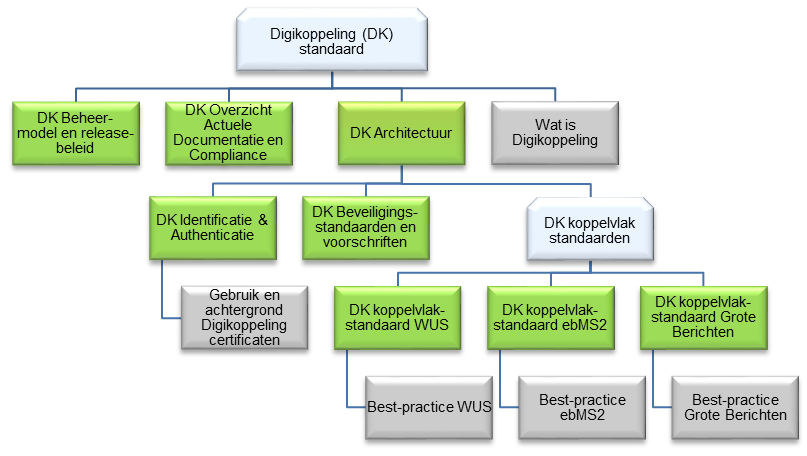
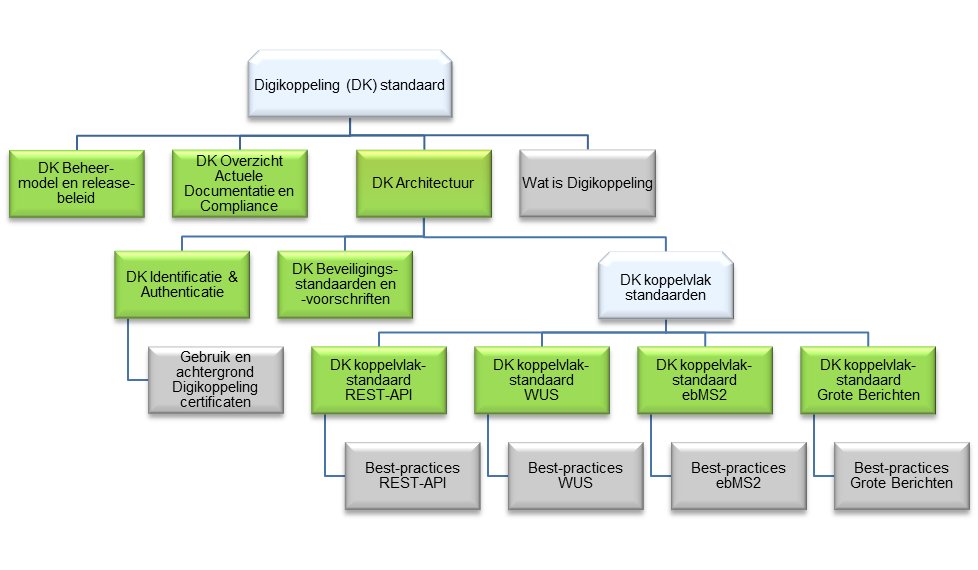
updated sections

diff --git a/js/config.js b/js/config.js
@@ -8,7 +8,7 @@ var respecConfig = {
   // TODO: emailComments: '...',
   // TODO: Voor pubDomain mogelijkheden zie https://github.com/Geonovum/respec/wiki/pubDomain
   // TODO: pubDomain: "...",
-  splitMDsections: false,
+  // splitMDsections: false,
  
   // Vul in om een korte extra uitleg te weergeven op de docs.centrumvoorstandaarden.nl website.
   subExplanation: "blabla", 
@@ -17,7 +17,7 @@ var respecConfig = {
   // Als er geen publishDate is opgegeven, genereert ReSpec de dataum o.b.v. de laatste wijzigingen
   // Belangrijk: als publishDate niet opgegeven is, wordt bij de link "Laatst gepubliceerde versie" "geen" gezet. Anders wordt een link opgebouwd voor de laatste versie, met het formaat:
   // https://docs.centrumvoorstandaarden.nl/{pubDomain}/{shortName}
-  publishDate: "2020-08-12",
+  publishDate: "2020-10-14",
   // Als er een eerder gepubliceerde versie is, geef dan de datum daarvan op
   //previousPublishDate: "2017-05-31",
   // Zie https://github.com/w3c/respec/wiki/previousMaturity. Dit moet een

diff --git a/dk_architectuurprincipes.md b/dk_architectuurprincipes.md
@@ -1,4 +1,3 @@
-<!-- markdownlint-disable MD033 MD024 MD041 MD038 -->
 # Digikoppeling-architectuurprincipes
 
 ## Uitgangspunten
@@ -7,7 +6,7 @@ De volgende uitgangspunten vormen de basis voor de uitwerking van deze architect
 
 1. De Digikoppeling standaarden zijn openbaar, vindbaar, transparant, leveranciersonafhankelijk en interoperabel. Zie bijlage D voor uitleg.
 
-2. De Digikoppeling-standaarden ondersteunen veilige gegevensuitwisseling <del>op basis van meldingen (ebMS2) , bevragingen (WUS) of in combinatie met grote berichten (GB).</del> voor:
+2. De Digikoppeling-standaarden ondersteunen veilige gegevensuitwisseling ~~op basis van meldingen (ebMS2) , bevragingen (WUS) of in combinatie met grote berichten (GB).~~ voor:
    - synchrone en asynchrone uitwisseling;
    - op berichten of op resources gebaseerde uitwisseling;
    - best effort of reliable uitwisseling;
@@ -15,20 +14,15 @@ De volgende uitgangspunten vormen de basis voor de uitwerking van deze architect
 
 > `TODO`: is bovenstaande lijstje compleet? toe te voegen patronen kunnen bijvoorbeeld zijn: stateful/stateless, push/pull, enz.
 
+3. Partijen kunnen kiezen welk interactiepatroon nodig is voor gegevensuitwisseling. ~~meldingen en/of bevragingen~~, afhankelijk van hun behoefte. Partijen bepalen in onderling overleg welke ~~ WUS- of ebMS2-~~ Digikoppeling profiel ze gebruiken.
 
+4. Basisregistraties en landelijke voorzieningen bepalen welke koppelvlakstandaard gebruikt wordt door een door hun geleverde dienst. Per dienst kunnen meerdere koppelvlakstandaarden gebruikt worden.
 
-3. Partijen kunnen kiezen welk interactiepatroon nodig is voor gegevensuitwisseling. <del>meldingen en/of bevragingen</del>, afhankelijk van hun behoefte. Partijen bepalen in onderling overleg welke <del> WUS- of ebMS2-</del> Digikoppeling profiel ze gebruiken.
-
-<details>
-  <summary>let op: Principe 4 is gewijzigd. Waarom?</summary>
-  > Principe 4 is vervangen door een gewijzigd principe 4. Er moet nog een check worden uitgevoerd op de NORA.
-</details>
-
-~~4. Basisregistraties en landelijke voorzieningen moeten beide koppelvlakstandaarden ondersteunen<sup>[12](#f12)</sup>. Mochten de serviceafnemers voldoende hebben aan één van de koppelvlakstandaarden, dan kan de aanbieder zich tot deze koppelvlakstandaard beperken.~~ 
-
-4. Basisregistraties en landelijke voorzieningen bepalen welke koppelvlakstandaard gebruikt wordt door een door hun geleverde dienst. Per dienst kunnen meerdere koppelvlakstandaard gebruikt worden.
-
-<del><br><sup><a name="f12"><dfn>12</dfn></a><del> Serviceafnemers kunnen hierdoor ebMS gebruiken voor zowel bevragingen (binnen de sector), meldingen als grote berichten. </del></sup></del>
+> **let op** Principe 4 is vervangen door een gewijzigd principe 4. Er moet nog een check worden uitgevoerd op de NORA.
+>
+> De vorige formulering was 
+> 4. ~~Basisregistraties en landelijke voorzieningen moeten beide koppelvlakstandaarden ondersteunen<sup>[12](#f12)</sup>. Mochten de serviceafnemers voldoende hebben aan één van de koppelvlakstandaarden, dan kan de aanbieder zich tot deze koppelvlakstandaard beperken.~~ 
+> ~~<br><sup><a name="f12"><dfn>12</dfn></a> Serviceafnemers kunnen hierdoor ebMS gebruiken voor zowel bevragingen (binnen de sector), meldingen als grote berichten. ~~</sup>
 
 In vorige versies van de Digikoppeling Architectuur werden profielen gekoppeld aan bevragingen en meldingen. Dit voorschrift bleek in de praktijk niet meer goed bruikbaar. Vandaar dat met ingang van versie `xx` deze relatie is komen te vervallen.
 
@@ -50,12 +44,12 @@ De architectuurprincipes geven richting aan de Digikoppeling-standaarden en Digi
 
 **Principe:** De interoperabiliteit van diensten is mogelijk door het gebruik van bewezen interoperabele internationale standaarden.
 
-**Rationale:** Door het gebruik van internationale open standaarden is het eenvoudiger en goedkoper om gegevens onderling uit te wisselen. Dit volgt uit de NORA en <del>het European Interoperability Framework (IDABC)</del>.
+**Rationale:** Door het gebruik van internationale open standaarden is het eenvoudiger en goedkoper om gegevens onderling uit te wisselen. Dit volgt uit de NORA en ~~het European Interoperability Framework (IDABC)~~.
 
 **Invulling:** 
 > `TODO`: Zowel IEF 2.0 als het European Framwork 2.0 zijn verouderd en vervangen door de  'New' EIF en de de EIRA. Onderbouwing moet daarom worden vernieuwd  
 
-<del>Het European Interoperability Framework 2. 0 maakt gebruik van een conceptueel model voor de levering van publieke diensten . In dit model is de *Secure Data Exchange/Management* laag verantwoordelijk voor de veilige uitwisseling van diensten en informatie. Deze laag regelt de veilige uitwisseling van gecontroleerde en betrouwbare berichten, documenten, formulieren en ander informatiedragers tussen verschillende systemen. Naast het transport van gegevens moet deze laag ook specifieke beveiligingsaspecten regelen zoals elektronische handtekeningen, certificaten, encryptie en tijdregistratie.<sup>[13](#f13)</sup></del>
+~~Het European Interoperability Framework 2. 0 maakt gebruik van een conceptueel model voor de levering van publieke diensten . In dit model is de *Secure Data Exchange/Management* laag verantwoordelijk voor de veilige uitwisseling van diensten en informatie. Deze laag regelt de veilige uitwisseling van gecontroleerde en betrouwbare berichten, documenten, formulieren en ander informatiedragers tussen verschillende systemen. Naast het transport van gegevens moet deze laag ook specifieke beveiligingsaspecten regelen zoals elektronische handtekeningen, certificaten, encryptie en tijdregistratie.<sup>[13](#f13)</sup>~~
 
 
 Deze laag wordt in de Nederlandse publieke sector ingevuld door Digikoppeling. Digikoppeling maakt hiervoor gebruik van twee internationale families van open standaarden voor webservices:<sup>[14](#f14)</sup> en REST-API's,een architectuurstijl gebaseerd op het gebruik van resources en de standaarden HTTP en JSON.  
@@ -71,11 +65,11 @@ De ebMS2 standaard en de WUS profielen worden door OASIS ([www.oasis.org](https:
 **Gevolg:** Digikoppeling schrijft ebMS2-, WUS-standaarden en de Nederlandse API Design Rules voor in de vorm van de Digikoppeling-koppelvlakstandaarden en profielen. Organisaties kunnen hiermee effectief, snel en veilig gegevens uitwisselen.
 
 <br>
-<br><del><sup><a name="f13"><dfn>13</dfn></a> Annex II - EIF (European Interoperability Framework) of the Communication “Towards interoperability for European public services” on the 16th of December 2010.</sup></del>
+<br>~~<sup><a name="f13"><dfn>13</dfn></a> Annex II - EIF (European Interoperability Framework) of the Communication “Towards interoperability for European public services” on the 16th of December 2010.</sup>~~
 
 <br><sup><a name="f14"><dfn>14</dfn></a> EIF 1.0. Het begrip webservices is een algemeen concept dat gerelateerd is aan Service georiënteerde architectuur. Zowel WUS als ebMS werken volgens dit concept. Omdat de WS-\* familie voortbouwt op de basisstandaarden WSDL, UDDI en SOAP, wordt deze familie wel aangeduid met WUS.</sup>
 
-<br><del><sup><a name="f15"><dfn>15</dfn></a> Voor de toepassing binnen Digikoppeling is in eerste instantie de beperking van die twee families overgenomen; de andere families hebben onvoldoende relevantie voor de Europese en Nederlandse overheid om afwijking van dit kader te rechtvaardigen.</sup></del>
+<br>~~<sup><a name="f15"><dfn>15</dfn></a> Voor de toepassing binnen Digikoppeling is in eerste instantie de beperking van die twee families overgenomen; de andere families hebben onvoldoende relevantie voor de Europese en Nederlandse overheid om afwijking van dit kader te rechtvaardigen.</sup>~~
 
 ## Gebruik standaardoplossingen (minimum aan maatwerk)
 
@@ -91,7 +85,7 @@ De ebMS2 standaard en de WUS profielen worden door OASIS ([www.oasis.org](https:
 
 **Principe:** Gegevens worden veilig uitgewisseld conform de eisen van de toepasselijke wet en regelgeving.
 
-**Rationale:** Er zijn diverse redenen om gegevens veilig en vertrouwelijk uit te wisselen. De <span style="color:green"> Algemene verordening gegevensbescherming (AVG) </span><del> Wet Bescherming Persoonsgegevens (WBP) </del> verplicht adequate maatregelen om de veiligheid en vertrouwelijkheid van (persoons)gegevens te bewaken. Partijen die onderling gegevens uitwisselen moeten hier afspraken over maken. De Wet Elektronische Handtekeningen bepaalt de rechtsgeldigheid van berichten die ondertekend zijn met een geldige digitale handtekening. Naast deze wetgeving zijn er ook andere wetten en beleidskaders die eisen stellen aan beveiliging en uitwisseling van gegevens.
+**Rationale:** Er zijn diverse redenen om gegevens veilig en vertrouwelijk uit te wisselen. De  Algemene verordening gegevensbescherming (AVG) ~~Wet Bescherming Persoonsgegevens (WBP)~~ verplicht adequate maatregelen om de veiligheid en vertrouwelijkheid van (persoons)gegevens te bewaken. Partijen die onderling gegevens uitwisselen moeten hier afspraken over maken. De Wet Elektronische Handtekeningen bepaalt de rechtsgeldigheid van berichten die ondertekend zijn met een geldige digitale handtekening. Naast deze wetgeving zijn er ook andere wetten en beleidskaders die eisen stellen aan beveiliging en uitwisseling van gegevens.
 
 Wanneer het gaat over veiligheid en vertrouwelijkheid zijn ook de Wet politiegegevens (informatiedeling met derden) en de Archiefwet van belang.
 
@@ -118,13 +112,13 @@ Digikoppeling stelt het gebruik van het PKIoverheid certificaten verplicht voor 
 
 ## Betrouwbaarheid
 
-> `TODO:` opties tussen transportprotocol en in businesslaag verduidelijken 
+> `TODO:` opties tussen op betrouwbaarheid op transportprotocolniveau en in businesslaag verduidelijken 
 
 **Principe:** De berichtuitwisseling is betrouwbaar indien nodig.
 
 **Rationale:** Betrouwbaarheid betekent een goede aflevering van berichten. Zie ook NORA BP09.
 
-**Invulling:** Dit principe wordt ingevuld met <del>meldingen</del> het ebMS profiel, dat een reliable variant kent. De verzender is verantwoordelijk voor de goede aflevering van gegevens (d.m.v. berichten) en kan hiervoor een betrouwbaar Digikoppeling-profiel gebruiken.
+**Invulling:** Dit principe wordt ingevuld met ~~meldingen~~ het ebMS profiel, dat een reliable variant kent. De verzender is verantwoordelijk voor de goede aflevering van gegevens (d.m.v. berichten) en kan hiervoor een betrouwbaar Digikoppeling-profiel gebruiken.
 
 > `TODO`: moet de volgende nieuwe zin - zie hieronder-, hier of als voetnoot worden vermeld? 
 

diff --git a/dk_wat_is_digikoppeling.md b/dk_wat_is_digikoppeling.md
@@ -14,7 +14,7 @@ Digikoppeling voorziet hierin door de standaarden voor deze uitwisseling te defi
 Digikoppeling is primair bedoeld voor gegevensuitwisseling tussen systemen van overheidsorganisaties, in het bijzonder de basisregistraties en landelijke of intersectorale gegevensdiensten, maar wordt breder ingezet in de (semi)publieke sector. Digikoppeling is beschikbaar voor elke organisatie die veilig en betrouwbaar gegevens wil uitwisselen met andere organisaties in de publieke sector. Gebruik van Digikoppeling buiten de publieke sector is ook mogelijk.
 
 > `TODO` De NORA richt zicht ook steeds meer op halen bij de bron en raadt het gebruik van API sterk aan.  Onderstaande alinea is daarom aan vervanging toe
-<del>## Servicegerichte architectuur conform NORA</del>
+## ~~Servicegerichte architectuur conform NORA~~
 
 <del>
 Digikoppeling sluit aan bij de servicegerichte architectuur die NORA (Nederlandse Overheids Referentie Architectuur)<sup>[1](#f1)</sup>: voorstaat. Deze vorm van informatie-uitwisseling verloopt via geautomatiseerde systemen van organisaties. Digikoppeling richt zich dus op de communicatie tussen ICT-systemen van verschillende organisaties, specifiek in de vorm van berichtenverkeer.</del>
@@ -93,7 +93,7 @@ De toepassing van Digikoppeling heeft enkele grote voordelen:
 
 ### De ‘Pas toe of leg uit’-lijst
 
-Digikoppeling staat op de ‘Pas toe of leg uit’-lijst van open standaarden van het Forum <del>en College</del> Standaardisatie<sup>[8](#f8)</sup>. Welke koppelvlakken nodig zijn en welke standaarden uit de lijst ingezet moeten worden, is afhankelijk van de aan te schaffen functionaliteit<sup>[9](#f9)</sup>.
+Digikoppeling staat op de ‘Pas toe of leg uit’-lijst van open standaarden van het Forum Standaardisatie<sup>[8](#f8)</sup>. Welke koppelvlakken nodig zijn en welke standaarden uit de lijst ingezet moeten worden, is afhankelijk van de aan te schaffen functionaliteit<sup>[9](#f9)</sup>.
 
 <sup><a name="f8"><dfn>8</dfn></a>: Voor meer informatie over open standaarden en de ‘pas toe of leg uit’ lijst zie: *https://www.forumstandaardisatie.nl/open-standaarden*.</sup> 
 
@@ -103,44 +103,24 @@ De opname op de ‘Pas toe of leg uit’-lijst houdt in dat Digikoppeling de sta
 
 ### Het functioneel toepassingsgebied
 
-<details>
-<summary>Waarom deze wijziging?</summary>
-
 > De inhoud van deze paragraaf is gelijkgetrokken met het Functionale Toepassingsgebied van Digikoppeling op de Pas-toe-of-leg-uit lijst van het Forum Standaardisatie, zie [https://www.forumstandaardisatie.nl/standaard/digikoppeling)](https://www.forumstandaardisatie.nl/standaard/digikoppeling)
-</details>
 
-Het functioneel toepassingsgebied van Digikoppeling is door het Forum Standaardisatie als volgt gedefinieerd:
+Het functioneel toepassingsgebied van Digikoppeling is door OBDO als volgt gedefinieerd:
 
 Digikoppeling moet worden toegepast op alle digitale gegevensuitwisseling met behulp van gestructureerde berichten die plaatsvindt met voorzieningen die onderdeel zijn van de GDI, waaronder de basisregistraties, of die sector-overstijgend is. Geautomatiseerde gegevensuitwisseling tussen informatiesystemen op basis van NEN3610 is uitgesloten van het functioneel toepassingsgebied.  
 
 Op 24 mei 2018 is de omschrijving van het functioneel toepassingsgebied door het Overheidsbrede Beleidsoverleg Digitale Overheid (OBDO) opnieuw bekrachtigd.
 
-<del><sup>[10](#f10)</sup>Geautomatiseerde gegevensuitwisseling tussen informatiesystemen voor sectoroverstijgend berichtenverkeer, op basis van:</del>  
-<del>
-- Digikoppeling ebMS2-standaard voor meldingen tussen informatiesystemen.
-- Digikoppeling WUS-standaard voor de bevraging van informatiesystemen. 
-- Digikoppeling GB-standaard voor de uitwisseling van grote berichten.
-</del>  
-
 <sup><a name="f10"><dfn>10</dfn></a>: [https://lijsten.forumstandaardisatie.nl/open-standaarden/digikoppeling](https://lijsten.forumstandaardisatie.nl/open-standaarden/digikoppeling)</sup>
 
 ### Het organisatorisch werkingsgebied
 
-<details>
-<summary>Waarom deze wijziging?</summary>
-
 > De inhoud van deze paragraaf is gelijkgetrokken met het Organisatorische Werkingsgebied van Digikoppeling op de Pas-toe-of-leg-uit lijst van het Forum Standaardisatie, zie [https://www.forumstandaardisatie.nl/standaard/digikoppeling)](https://www.forumstandaardisatie.nl/standaard/digikoppeling)
-</details>
 
-Het organisatorisch werkingsgebied van Digikoppeling is door <del>het College Standaardisatie</del><span style="color:green">het OBDO</span> gedefinieerd als:
+Het organisatorisch werkingsgebied van Digikoppeling is door het OBDO gedefinieerd als:
 
 - Nederlandse overheden (Rijk, provincies, gemeenten en waterschappen) en instellingen
 - uit de (semi-) publieke sector.
-
-<del>Het werkingsgebied van de standaard is bedoeld voor intersectoraal verkeer en verkeer met basisregistraties en kent geen verplichting binnen sectoren. Het Forum is wel van mening dat gebruik binnen sectoren ook aanbevelenswaardig is en roept de beheerder van de standaard dan ook op dit gebruik te promoten.
-</del>  
-
-<del>Het organisatorisch werkingsgebied beschrijft de overheden die verplicht zijn om Digikoppeling te gebruiken voor een bepaald doel, in dit geval berichtenverkeer met basisregistraties en sectoroverstijgend berichtenverkeer. In de praktijk wordt Digikoppeling ook door vele organisaties buiten dit domein gebruikt en in sommige sectoren ook voor het sectorale verkeer. De landelijke eOverheids voorzieningen maken tevens gebruik van Digikoppeling voor het berichtenverkeer met hun afnemers.</del>  
 
 Digikoppeling is van toepassing bij aanschaf of ontwikkeling van systemen bedoeld voor gestructureerde berichtenuitwisseling met voorzieningen die onderdeel zijn van de GDI (zoals de basisregistraties) en berichtverkeer dat sectoroverstijgend is.
 
@@ -168,7 +148,7 @@ Versie 2.0 is ‘backwards compatible’: organisaties die versie 1.0 gebruiken 
 Digikoppeling 2.0 is in 2013 door het College Standaardisatie opgenomen op de
 ‘Pas toe of leg uit’-lijst van standaarden. Omdat versie 2.0 backwards compatible is, voldoen implementaties van Digikoppeling 1.0 nog steeds aan die lijst.
 
-### vanaf 2018: Digikoppeling versionering niet meer of hoofdniveau, maar op documentniveau
+### Vanaf 2018: Digikoppeling versionering niet meer of hoofdniveau, maar op documentniveau
 
 Voor de Digikoppeling standaard is in 2018 de versionering op het hoofdniveau beëindigd. Er zal alleen nog worden gerefereerd aan de Digikoppeling standaard en de versionering van de verschillende onderdelen wordt op documentniveau bijgehouden.
 
@@ -196,12 +176,12 @@ Hieronder staan de belangrijkste onderdelen van de beheeromgeving.
 
 - De gebruikers van Digikoppeling, die samenkomen in:
   - Het Technisch Overleg Digikoppeling, waarin voorgestelde wijzigingen worden afgestemd.
-  - Een openbare community (op Pleio en Github) voor het uitwisselen van kennis en het voeren van een bredere discussie over de wijze van samenwerken en het uitwisselen van gegevens via Digikoppeling.
-  - <del>  - Het Afnemersoverleg, het formele orgaan dat besluiten neemt over stelselvoorzieningen. Naast Afnemersoverleg kunnen besluiten ook nog worden voorgelegd aan de Regieraad Gegevens .Bijeenkomsten met leveranciers en gebruikers.
+  - Een openbare community (op ~~Pleio~~Github) voor het uitwisselen van kennis en het voeren van een bredere discussie over de wijze van samenwerken en het uitwisselen van gegevens via Digikoppeling.
+  - <del>Het Afnemersoverleg, het formele orgaan dat besluiten neemt over stelselvoorzieningen. Naast Afnemersoverleg kunnen besluiten ook nog worden voorgelegd aan de Regieraad Gegevens .Bijeenkomsten met leveranciers en gebruikers.
 </del>  
   - De beheerorganisatie, ondergebracht bij Logius, die de standaarden en voorzieningen beheert, ontwikkelingen in de omgeving volgt en periodiek voorstellen ter doorontwikkeling uitwerkt.
-  - Standaardisatieprocessen en -organen (onder andere het Forum en ~~College Standaardisatie~~ <span style="color:green">OBDO</span>).
-
+  - Standaardisatieprocessen en -organen (onder andere het Forum en OBDO).
+<br>
 Het hele beheerproces staat beschreven in het *Digikoppeling Beheermodel en Releasebeleid.*
 
 De Digikoppeling-beheerder is verantwoordelijk voor het opstellen en beheren van overheidsbrede standaarden en afspraken over het gebruik van Digikoppeling en voor het beheren van de Digikoppeling-voorzieningen.

diff --git a/dk_koppelvlakstandaarden_en_voorschriften.md b/dk_koppelvlakstandaarden_en_voorschriften.md
@@ -6,13 +6,13 @@ De Digikoppeling Architectuur legde in de eerdere versies grote nadruk op bevrag
 
 > `TODO`: check consistentie met andere hoofdstukken 
 
-<del>`Bevragingen en meldingen` - eventueel in combinatie met grote berichten - bieden door hun verscheidenheid aan profielen en opties de logistieke bouwstenen om diverse interactiepatronen te realiseren.</del> 
+~~Bevragingen en meldingen - eventueel in combinatie met grote berichten - bieden door hun verscheidenheid aan profielen en opties de logistieke bouwstenen om diverse interactiepatronen te realiseren.~~ 
 
-Digikoppeling kent <del>drie</del>vier koppelvlakstandaarden 
+Digikoppeling kent ~~drie~~**vier** koppelvlakstandaarden 
 
-- WUS voor <span style="color:green"> synchrone uitwisseling van gestructeerde berichten</span><del> bevragingen; </del>
+- WUS voor synchrone uitwisseling van gestructeerde berichten ~~bevragingen~~;
 
-- ebMS2 voor <span style="color:green"> asynchrone uitwisseling </span><del> meldingen; </del>
+- ebMS2 voor asynchrone uitwisseling ~~meldingen~~;
 
 - Restful API voor synchrone uitwsseling, de focus ligt op het bevragen en bewerken van resources;
 
@@ -22,11 +22,10 @@ De Digikoppeling-koppelvlakstandaarden beschrijven verschillende profielen. Elk 
 
 De volgende profielen zijn onderkend:
 
-- Best effort – geschikt voor `bevragingen` <del> (WUS en ebMS2) </del><sup>[*](#f*)</sup>
+- Best effort – geschikt voor bevragingen ~~(WUS en ebMS2)~~
 
-- Betrouwbaar (reliable) – geschikt voor `meldingen` <del> (ebMS2) </del>`
+- Betrouwbaar (reliable) – geschikt voor meldingen ~~(ebMS2)~~
 
-<sup><a name="f*"><dfn>*</dfn></a>: Zie 5.4.4. ebMS2 voor vragen met een uitgesteld antwoord</sup>
 
 Deze komen in de volgende varianten voor:
 
@@ -40,8 +39,8 @@ Door het gebruik van deze profielen worden deze aspecten correct afgehandeld en 
 
 | Onderdeel | Toelichting|
 |---|---|
-| Koppelvlakstandaard WUS | het gebruik van WUS <del> voor bevragingen </del><span style="color:green"> synchrone uitwisseling van gestructureerde berichten </span> en de WUS profielen.|
-| Koppelvlakstandaard ebMS2 | Het gebruik van ebMS2 <del> voor meldingen </del> <span style="color:green"> asynchrone uitwisseling </span> en de ebMS2 profielen|
+| Koppelvlakstandaard WUS | het gebruik van WUS voor ~~bevragingen~~ synchrone uitwisseling van gestructureerde berichten en de WUS profielen.|
+| Koppelvlakstandaard ebMS2 | Het gebruik van ebMS2 voor ~~meldingen~~ asynchrone uitwisseling en de ebMS2 profielen|
 |Koppelvlakstandaard Restful API| Het gebruik van Restful APIs voor het synchroon raadplegen en bewerken van resources|
 | Koppelvlakstandaard Grote Berichten | Voor de uitwisseling van grote berichten maakt gebruik van WUS met HTTPS bestandsoverdracht of ebMS2 met HTTPS bestandsoverdracht |
 | Beveiligingstandaarden en voorschriften  | Beschrijft de beveilingstandaarden (TLS, signing en encryption) voor de Digikoppeling profielen WUS, ebMS2 en Grote berichten |
@@ -100,11 +99,11 @@ Kenmerkend voor de WUS-standaarden die voortkomen uit de Internet-wereld is de 1
 
 <sup><a name="f27"><dfn>27</dfn></a>: Voorheen Web Services Interoperability (WS-I) organization</sup> 
 
-### <span style="color:green"> Digikoppeling </span> WUS <del> voor bevragingen </del>
+### Digikoppeling WUS ~~voor bevragingen~~
 
-De Digikoppeling-koppelvlakstandaard WUS (KVS WUS) ondersteunt het uitvoeren van <del> bevragingen </del> <span style="color:green"> synchrone requests </span> tussen geautomatiseerde informatiesystemen.
+De Digikoppeling-koppelvlakstandaard WUS (KVS WUS) ondersteunt het uitvoeren van ~~bevragingen~~ synchrone requests tussen geautomatiseerde informatiesystemen.
 
-De KVS WUS biedt de volgende functionaliteiten: <del> voor bevragingen: </del>
+De KVS WUS biedt de volgende functionaliteiten: ~~voor bevragingen~~
 
 - Identificatie en authenticatie van partijen
 
@@ -136,13 +135,13 @@ Digikoppeling maakt  gebruik van een familie van standaarden die we “ebMS2” 
 
 Kenmerkend voor de ebMS2-standaarden die voortkomen uit de EDIFACT-wereld is de 1-op-1 relatie tussen een beperkt aantal (vaak twee) partijen. Dit betekent dat twee partijen samen een CPA moeten afspreken, creëren en implementeren; de CPA is dus van zowel de serviceaanbieder als de serviceafnemer.
 
-### <span style="color:green"> Digikoppeling </span> ebMS2 <del> voor meldingen </del>
+### Digikoppeling ebMS2 ~~voor meldingen~~
 
-De Digikoppeling-koppelvlakstandaard ebMS2 (KVS ebMS2) ondersteunt het uitvoeren van <span style="color:green"> asynchrone berichten </span><del> meldingen </del> tussen geautomatiseerde informatiesystemen.
+De Digikoppeling-koppelvlakstandaard ebMS2 (KVS ebMS2) ondersteunt het uitvoeren van asynchrone berichten ~~meldingen~~ tussen geautomatiseerde informatiesystemen.
 
 Het protocol regelt de betrouwbare ontvangst van een bericht en eventueel de onweerlegbaarheid (non-repudiation) in de vorm van een ondertekende ontvangstbevestiging. Hoewel Digikoppeling-meldingen (op de logistieke laag) asynchroon zijn kan de business-laag wel synchroon werken als de verzender wacht op een retourmelding.`
 
-De KVS ebMS2 regelt de volgende functionaliteiten: <del> voor meldingen </del>:
+De KVS ebMS2 regelt de volgende functionaliteiten: ~~voor meldingen~~:
 
 - Identificatie en authenticatie van partijen
 
@@ -180,11 +179,8 @@ Een CPA is een formeel xml-document om de gebruikte functionele en technische ei
 
 De wijze waarop een CPA wordt toegepast staat beschreven in Digikoppeling Best Practices ebMS2. Het CPA Register ondersteunt partijen in het creëren van een CPA.
 
-<del>
-### ebMS2 voor vragen met een uitgesteld antwoord
-In sommige sectoren wordt een vraag verstuurd met ebMS2 en komt het
-(uitgestelde) antwoord ook via ebMS2 retour. Deze vorm van uitwisseling is asynchroon en voldoet dus niet aan de definitie voor `bevragingen`, omdat een `bevraging` synchroon is. Digikoppeling biedt hiervoor meldingen. Bij dit type gebruik is de betrouwbaarheid eigenlijk overbodig. Het ebMS2 best effort profiel van de koppelvlakstandaard ebMS2 kan ook voor dit type vragen met uitgestelde antwoorden worden gebruikt, als partijen dit onderling afspreken. Dit gebruik wordt niet op landelijk of intersectoraal niveau toegestaan en is dus uitsluitend optioneel binnen sectoren.`
-</del>
+### ~~ebMS2 voor vragen met een uitgesteld antwoord~~
+~~In sommige sectoren wordt een vraag verstuurd met ebMS2 en komt het (uitgestelde) antwoord ook via ebMS2 retour. Deze vorm van uitwisseling is asynchroon en voldoet dus niet aan de definitie voor bevragingen, omdat een bevraging synchroon is. Digikoppeling biedt hiervoor meldingen. Bij dit type gebruik is de betrouwbaarheid eigenlijk overbodig. Het ebMS2 best effort profiel van de koppelvlakstandaard ebMS2 kan ook voor dit type vragen met uitgestelde antwoorden worden gebruikt, als partijen dit onderling afspreken. Dit gebruik wordt niet op landelijk of intersectoraal niveau toegestaan en is dus uitsluitend optioneel binnen sectoren.~~
 
 ## Grote berichten
 
@@ -194,7 +190,7 @@ De situatie kan zich voordoen dat een WUS, Restful API, en/of ebMS2 bericht een 
 
 De volgende standaard aanpak wordt hierbij gehanteerd:
 
-- Met WUS of ebMS2 wordt referentie (link) verstuurd; 
+- Met WUS of ebMS2 wordt referentie (link) verstuurd;
 
 > `TODO`: hier ook Restful API vermelden?
 
@@ -220,7 +216,7 @@ De *Digikoppeling Koppelvlakstaard Grote Berichten* (KVS GB) maakt gebruik van W
 
  voor het verzenden van metadata. Voor ophalen van het grote bestand maakt de standaard gebruik van HTTPS-downloads. Daardoor zijn reliability en security gelijkwaardig aan WUS en ebMS2. Ook is het gebruik van transparante intermediairs mogelijk.
 
-De KVS GB regelt de volgende functionaliteiten <del> voor meldingen of bevragingen </del>, in aanvulling op WUS of ebMS2 
+De KVS GB regelt de volgende functionaliteiten ~~voor meldingen of bevragingen~~, in aanvulling op WUS of ebMS2 
 
 > `TODO`: zie eerder opmerking over evt toevoegen API voor GB
 

diff --git a/README.md b/README.md
@@ -48,7 +48,7 @@ Onderstaande indeling is concept. Dit kan nog op alle punten wijzigen.
 |2|referentie aan de NORA|De NORA richt zicht ook steeds meer op halen bij de bron en raadt het gebruik van API sterk aan.  Onderstaande alinea is aan vervanging toe|
 |3|De Digikoppeling-standaarden ondersteunen veilige gegevensuitwisseling voor...|is bovenstaande lijstje compleet? toe te voegen patronen kunnen bijvoorbeeld zijn: stateful/stateless, push/pull, enz.|
 |3|IEF,EIF |Zowel IEF 2.0 als het European Framwork 2.0 zijn verouderd en vervangen door de  'New' EIF en de de EIRA. Onderbouwing moet daarom worden vernieuwd |
-|3|principe betrouwbaarheid|opties tussen transportprotocol en in businesslaag  verduidelijken|
+|3|principe betrouwbaarheid|opties tussen op betrouwbaarheid op transportprotocolniveau en in businesslaag verduidelijken|
 |3|betrouwbaarheid ... in de businesslaag|moet de volgende nieuwe zin - zie hieronder-, hier of als voetnoot worden vermeld? |
 |3|Digikoppeling maakt hiervoor gebruik van twee internationale families...|hier iets over ADR (HTTP/JSON)?|
 |4|rollen|Er is grote behoefte om de rollen nader uit te werken. Dit kan in een aparte paragraaf of als verdere aanvulling op de vorige paragraaf|

diff --git a/dk_voorzieningen.md b/dk_voorzieningen.md
@@ -15,7 +15,7 @@ De volgende Digikoppeling-voorzieningen ondersteunen het ontwikkel- en implement
 Digikoppeling adapters of applicaties kunnen worden getest op compliance met de koppelvlakstandaarden via de het Digikoppeling Portaal. Al deze voorzieningen zijn bereikbaar via https://portaal.digikoppeling.nl.
 
 | Functionaliteit  | Uitleg | Invulling |
-| --- |--- | --- |
+|--------------------------------------------|---|---|
 | Compliance WUS services | WUS services kunnen worden getest op compliance met de Digikoppeling-koppelvlakstandaard WUS.  | Digikoppeling Portaal -Compliancevoorziening WUS |
 | Compliance ebMS2 services  | ebMS2 services kunnen worden getest op compliance met de Digikoppeling-koppelvlakstandaard ebMS2. | Digikoppeling Portaal -Compliancevoorziening ebMS2 |
 | Compliance Grote Berichten | Grote berichten kunnen in combinatie met WUS of ebMS2 services worden getest op compliance met de koppelvlakstandaarden | Digikoppeling Portaal-Compliancevoorziening WUS en ebMS2                                                  |

diff --git a/dk_keten.md b/dk_keten.md
@@ -225,10 +225,7 @@ Asynchrone uitwisseling kunnen worden ingericht op basis van de Digikoppeling-ko
 
 ### Geen onderscheid meer in gebruik WUS en ebMS2 voor bevragingen en transacties
 
-<details>
-  <summary>DIt is een eerder toevoeging. Waarom deze wijziging?</summary>
-  > Dit voorstel voor nieuwe paragraafis al eerder besproken in het TO , naar aanleiding van de ingediende 'RFC WUS voor meldingen'.
-</details>
+> Deze is al eerder besproken in het TO, naar aanleiding van de ingediende 'RFC WUS voor meldingen'.
 
 De Provider bepaalt welk koppelvlak - Restful API, WUS of ebMS- van toepassing is op de door haar geleverde dienst. 
 
